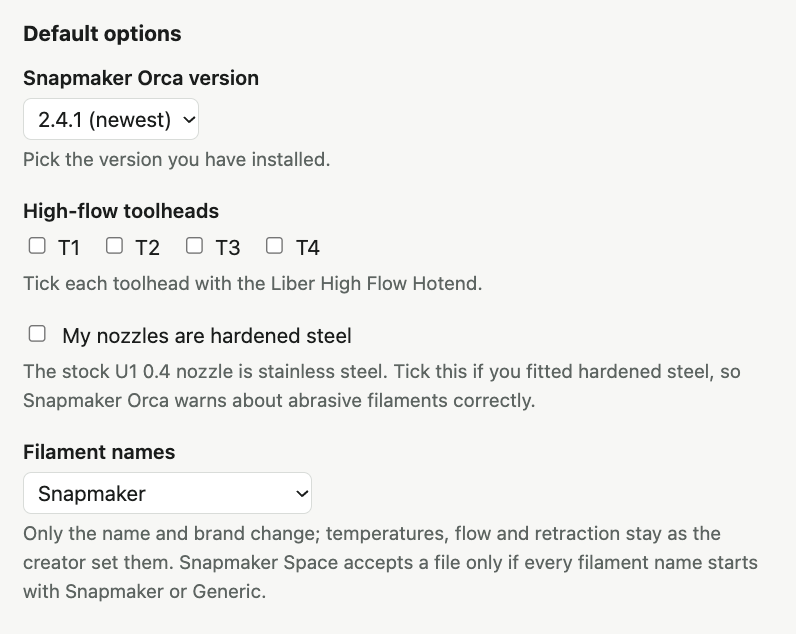
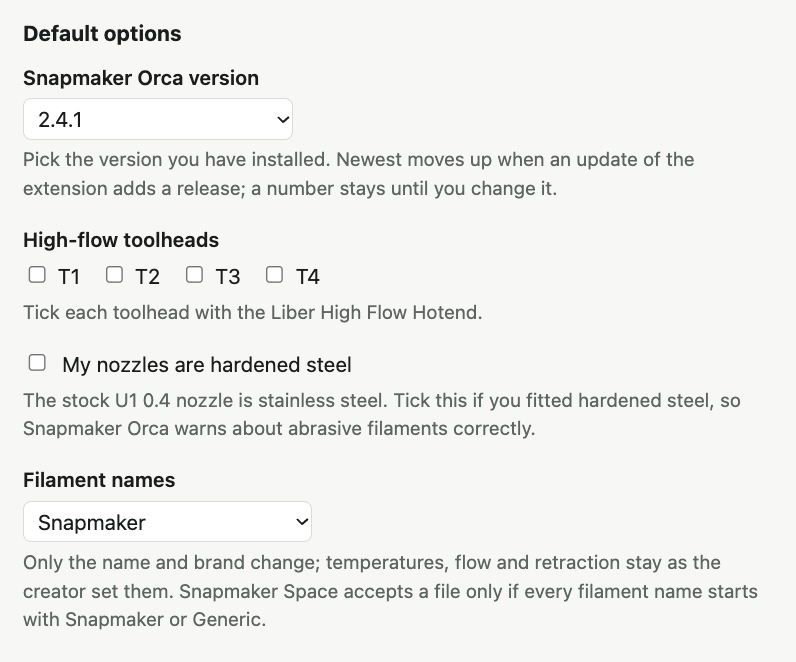
Keep the Snapmaker Orca version a user picked, the newest included
A new install pins the newest release; picking a number, the newest
included, saves that exact version, and "Newest" is its own entry for
anyone who wants to follow each update. When an update adds a release,
the notice says the choice stands and which version to pick after
updating Snapmaker Orca. A choice a later catalog drops moves to the
newest, pinned.

Changed region(s): [[0.0302, 0.03, 0.9347, 0.6593], [0.0302, 0.6893, 0.9648, 0.959]]

diff --git a/tests/e2e/releases.spec.ts b/tests/e2e/releases.spec.ts
@@ -15,20 +15,77 @@ const releasesOf = async (session: Session) => {
   const page = await session.open("convert.html");
   await page.locator("summary").click();
   await page.locator("#orca-version option").first().waitFor({ state: "attached" });
-  const releases = await page.locator("#orca-version option").evaluateAll((options) => options.map((o) => (o as HTMLOptionElement).value));
+  const releases = await page.locator("#orca-version option").evaluateAll((options) => options.map((o) => (o as HTMLOptionElement).value).filter((value) => value !== ""));
   await page.close();
   return releases;
 };
 const setKnown = (session: Session, known: string[]) => session.worker.evaluate((value) => chrome.storage.local.set({ knownReleases: value }), known);
+const storedVersion = (session: Session) =>
+  session.worker.evaluate(() => chrome.storage.local.get("settings").then(({ settings }) => (settings as { convert: { snapmakerOrcaVersion: string | null } }).convert.snapmakerOrcaVersion));
+const choose = (session: Session, version: string | null) => {
+  const settings = defaultSettings();
+  return setSettings(session, { ...settings, convert: { ...settings.convert, snapmakerOrcaVersion: version } });
+};
 
-test("a first run announces nothing, and shows what files are converted for", async () => {
+test("a first run announces nothing, and pins the newest by number", async () => {
   const page = await session.open("convert.html");
   await expect(page.locator("#options-version")).toContainText(/for Snapmaker Orca \d/);
   await expect(page.locator("#release-notice")).toBeHidden();
+  await page.locator("summary").click();
+  const newest = await page.locator("#orca-version option").nth(1).getAttribute("value");
+  await expect(page.locator("#orca-version")).toHaveValue(newest!);
+  await expect(page.locator("#orca-version option").first()).toHaveText(`Newest (currently ${newest})`);
+  expect(await storedVersion(session)).toBe(newest);
 });
 
-test("after an update adds a release: says so once, until dismissed", async () => {
+test("the picker saves Newest as following the catalog, and the newest by number as exact", async () => {
   const releases = await releasesOf(session);
+  const page = await session.open("convert.html");
+  await page.locator("summary").click();
+  await page.selectOption("#orca-version", "");
+  await expect.poll(() => storedVersion(session)).toBeNull();
+  await expect(page.locator("#options-version")).toContainText(`Snapmaker Orca ${releases[0]}`);
+  await page.selectOption("#orca-version", releases[0]!);
+  await expect.poll(() => storedVersion(session)).toBe(releases[0]);
+  await page.reload();
+  await page.locator("summary").click();
+  await expect(page.locator("#orca-version")).toHaveValue(releases[0]!);
+});
+
+test("the newest chosen by number stays put when an update adds a release", async () => {
+  const releases = await releasesOf(session);
+  const chosen = releases[1]!;
+  // As the extension was before the update: the chosen release was the newest it held, and was picked by number.
+  await setKnown(session, releases.slice(1));
+  await choose(session, chosen);
+
+  const page = await session.open("convert.html");
+  const notice = page.locator("#release-notice");
+  await expect(notice).toContainText(`Snapmaker Orca ${releases[0]} is now available`);
+  await expect(notice).toContainText(`You're still converting for ${chosen}.`);
+  await expect(notice).toContainText(`If you've updated Snapmaker Orca, choose ${releases[0]} in the options.`);
+  await expect(notice).not.toContainText("Conversions now use");
+  await expect(page.locator("#options-version")).toContainText(`Snapmaker Orca ${chosen}`);
+  await page.locator("summary").click();
+  await expect(page.locator("#orca-version")).toHaveValue(chosen);
+  await page.setInputFiles("#file", fixturePath(SAMPLE));
+  await expect(page.locator(".saved")).toContainText(`for Snapmaker Orca ${chosen}`);
+  expect(await storedVersion(session)).toBe(chosen);
+
+  // Dismissed, it stays away; the next new release brings it back.
+  await notice.locator("button.dismiss-notice").click();
+  await expect(notice).toBeHidden();
+  await page.reload();
+  await expect(page.locator("#options-version")).toContainText(`Snapmaker Orca ${chosen}`);
+  await expect(notice).toBeHidden();
+  await setKnown(session, releases.slice(1));
+  await page.reload();
+  await expect(notice).toContainText(`You're still converting for ${chosen}.`);
+});
+
+test("after an update adds a release, Newest moves up: says so once, until dismissed", async () => {
+  const releases = await releasesOf(session);
+  await choose(session, null);
   await setKnown(session, releases.slice(1));
   const page = await session.open("convert.html");
   const notice = page.locator("#release-notice");
@@ -55,6 +112,8 @@ test("a chosen release the catalog dropped: says so, and the picker and the resu
   await expect(page.locator("#options-version")).toContainText(`Snapmaker Orca ${releases[0]}`);
   await page.setInputFiles("#file", fixturePath(SAMPLE));
   await expect(page.locator(".saved")).toContainText(`for Snapmaker Orca ${releases[0]}`);
+  // Moved to the newest pinned, like a first run, so the next update doesn't move it again.
+  expect(await storedVersion(session)).toBe(releases[0]);
 });
 
 test("each result and the options name the version chosen", async () => {

diff --git a/tests/unit/releases.test.ts b/tests/unit/releases.test.ts
@@ -1,6 +1,6 @@
 // SPDX-License-Identifier: AGPL-3.0-or-later
 import { describe, expect, it } from "vitest";
-import { activeRelease, parseKnownReleases, releaseChange, releaseNoticeText } from "../../src/core/releases";
+import { activeRelease, parseKnownReleases, releaseChange, releaseNoticeText, settledChoice } from "../../src/core/releases";
 
 const now = ["2.4.2", "2.4.1", "2.4.0"];
 
@@ -21,6 +21,29 @@ describe("activeRelease", () => {
   });
 });
 
+describe("settledChoice", () => {
+  it("pins the newest on a first run, so a later update doesn't move anyone", () => {
+    expect(settledChoice(null, now, null)).toBe("2.4.2");
+    expect(settledChoice(null, now, "2.4.0")).toBe("2.4.0");
+  });
+  it("leaves Newest following the catalog after the first run", () => {
+    expect(settledChoice(["2.4.1", "2.4.0"], now, null)).toBeNull();
+  });
+  it("keeps an exact choice of the newest when a newer release arrives", () => {
+    expect(settledChoice(["2.4.1", "2.4.0"], now, "2.4.1")).toBe("2.4.1");
+    expect(activeRelease("2.4.1", now)).toBe("2.4.1");
+    expect(releaseChange(["2.4.1", "2.4.0"], now, "2.4.1")).toEqual({ added: ["2.4.2"], droppedChoice: null });
+  });
+  it("moves a dropped choice to the newest, pinned", () => {
+    expect(settledChoice(["2.4.1", "2.4.0", "2.3.9"], ["2.4.1", "2.4.0"], "2.3.9")).toBe("2.4.1");
+    expect(settledChoice(null, ["2.4.1", "2.4.0"], "2.3.9")).toBe("2.4.1");
+  });
+  it("changes nothing when the catalog is empty", () => {
+    expect(settledChoice(null, [], null)).toBeNull();
+    expect(settledChoice(["2.4.1"], [], "2.4.1")).toBe("2.4.1");
+  });
+});
+
 describe("the notice", () => {
   const text = (known: string[], chosen: string | null, releases = now) => releaseNoticeText(releaseChange(known, releases, chosen), releases, chosen);
 
@@ -34,10 +57,18 @@ describe("the notice", () => {
     expect(notice).toContain("Conversions now use 2.4.2");
     expect(notice).toContain("older version");
   });
-  it("tells someone with a choice that it stands", () => {
+  it("tells someone with a choice that it stands, and what to pick after updating", () => {
     const notice = text(["2.4.1", "2.4.0"], "2.4.1");
-    expect(notice).toContain("You're still converting for 2.4.1");
+    expect(notice).toContain("Snapmaker Orca 2.4.2 is now available");
+    expect(notice).toContain("You're still converting for 2.4.1.");
+    expect(notice).toContain("If you've updated Snapmaker Orca, choose 2.4.2 in the options.");
     expect(notice).not.toContain("Conversions now use");
+  });
+  it("comes back with each new release for a choice that stands", () => {
+    expect(text(["2.4.2", "2.4.1", "2.4.0"], "2.4.1", ["2.4.3", "2.4.2", "2.4.1"])).toContain("2.4.3 is now available here. You're still converting for 2.4.1.");
+  });
+  it("doesn't suggest the release already chosen", () => {
+    expect(text(["2.4.2", "2.4.1"], "2.4.2")).not.toContain("If you've updated");
   });
   it("says when a chosen release was dropped, and what's used instead", () => {
     const notice = text(["2.4.1", "2.4.0", "2.3.9"], "2.3.9", ["2.4.1", "2.4.0"]);

diff --git a/src/ui/optionsForm.ts b/src/ui/optionsForm.ts
@@ -10,17 +10,22 @@ const FILAMENT_CHOICES: Array<{ value: FilamentNames; label: string }> = [
   { value: "snapmaker", label: "Snapmaker" },
 ];
 
+/** The picker's value for "Newest": empty, so it can't be taken for a release number. */
+const NEWEST = "";
+
 function save(change: (convert: ConvertSettings) => void): void {
   void updateSettings((settings: Settings) => change(settings.convert));
 }
 
 export function renderOptions(container: HTMLElement, convert: ConvertSettings, releases: readonly string[]): void {
+  // "Newest" (stored as null) follows the catalog; a number, the newest included, stays put. A choice the catalog no
+  // longer holds shows as Newest, which is what a conversion would use, until the release check settles it.
+  const chosen = convert.snapmakerOrcaVersion;
+  const exact = chosen !== null && releases.includes(chosen) ? chosen : null;
   const version = el("select", { id: "orca-version" });
-  for (const [index, release] of releases.entries()) {
-    const label = index === 0 ? `${release} (newest)` : release;
-    version.append(el("option", { value: release, selected: release === (convert.snapmakerOrcaVersion ?? releases[0]) }, label));
-  }
-  version.addEventListener("change", () => save((c) => (c.snapmakerOrcaVersion = version.value === releases[0] ? null : version.value)));
+  if (releases[0] !== undefined) version.append(el("option", { value: NEWEST, selected: exact === null }, `Newest (currently ${releases[0]})`));
+  for (const release of releases) version.append(el("option", { value: release, selected: release === exact }, release));
+  version.addEventListener("change", () => save((c) => (c.snapmakerOrcaVersion = version.value === NEWEST ? null : version.value)));
 
   const toolheads = el("div", { class: "toolheads" });
   convert.highFlowToolheads.forEach((on, index) => {
@@ -40,7 +45,7 @@ export function renderOptions(container: HTMLElement, convert: ConvertSettings, 
     el("div", { class: "field" },
       el("label", { for: "orca-version" }, "Snapmaker Orca version"),
       version,
-      el("p", { class: "help" }, "Pick the version you have installed.")),
+      el("p", { class: "help" }, "Pick the version you have installed. Newest moves up when an update of the extension adds a release; a number stays until you change it.")),
     el("div", { class: "field" },
       el("span", { class: "label" }, "High-flow toolheads"),
       toolheads,

diff --git a/src/core/releases.ts b/src/core/releases.ts
@@ -24,6 +24,18 @@ export function activeRelease(chosen: string | null, releases: readonly string[]
   return chosen !== null && releases.includes(chosen) ? chosen : releases[0];
 }
 
+/**
+ * The choice to keep after an update is checked. A first run pins the newest, so a later update never moves anyone to a
+ * release they may not run without asking; a choice the catalog dropped moves to the newest, pinned the same way.
+ * Null ("Newest", chosen in the options) otherwise stays null and follows the catalog.
+ */
+export function settledChoice(known: readonly string[] | null, releases: readonly string[], chosen: string | null): string | null {
+  const newest = releases[0];
+  if (newest === undefined) return chosen;
+  if (chosen !== null && !releases.includes(chosen)) return newest;
+  return known === null ? (chosen ?? newest) : chosen;
+}
+
 /** What to tell the user, or null if nothing changed for them. */
 export function releaseNoticeText(change: ReleaseChange, releases: readonly string[], chosen: string | null): string | null {
   const newest = releases[0];
@@ -32,8 +44,10 @@ export function releaseNoticeText(change: ReleaseChange, releases: readonly stri
   if (change.droppedChoice !== null) parts.push(`Snapmaker Orca ${change.droppedChoice} is no longer available here, so conversions now use ${newest}, the newest.`);
   if (change.added.length > 0) {
     parts.push(`Snapmaker Orca ${change.added.join(", ")} ${change.added.length === 1 ? "is" : "are"} now available here.`);
-    if (chosen !== null && change.droppedChoice === null) parts.push(`You're still converting for ${chosen}; you can change that in the options.`);
-    else parts.push(`Conversions now use ${newest}. If you still run an older version, choose it in the options: a file made for a newer version may not open cleanly in an older one.`);
+    if (chosen !== null && change.droppedChoice === null) {
+      parts.push(`You're still converting for ${chosen}.`);
+      if (chosen !== newest) parts.push(`If you've updated Snapmaker Orca, choose ${newest} in the options.`);
+    } else parts.push(`Conversions now use ${newest}. If you still run an older version, choose it in the options: a file made for a newer version may not open cleanly in an older one.`);
   } else if (change.droppedChoice !== null) {
     parts.push("If you still run an older version, choose it in the options.");
   }

diff --git a/src/ui/releaseNotice.ts b/src/ui/releaseNotice.ts
@@ -1,7 +1,7 @@
 // SPDX-License-Identifier: AGPL-3.0-or-later
 /** Says once, and until dismissed, that an update changed which Snapmaker Orca releases are available. */
 import { api } from "../browser";
-import { parseKnownReleases, releaseChange, releaseNoticeText } from "../core/releases";
+import { parseKnownReleases, releaseChange, releaseNoticeText, settledChoice } from "../core/releases";
 import { button, el, need } from "./dom";
 import { loadSettings, updateSettings } from "./settingsStore";
 
@@ -19,16 +19,18 @@ export async function showReleaseNotice(releases: readonly string[]): Promise<vo
   const stored = await api.storage.local.get([KNOWN_KEY, NOTICE_KEY]);
   const known = parseKnownReleases(stored[KNOWN_KEY]);
   let notice = stored[NOTICE_KEY];
+  const { convert } = await loadSettings();
+  const chosen = convert.snapmakerOrcaVersion;
+  // A first run has nothing to announce; a notice stays until dismissed, and the next new release brings it back.
   if (known !== null) {
-    const { convert } = await loadSettings();
-    const change = releaseChange(known, releases, convert.snapmakerOrcaVersion);
-    const text = releaseNoticeText(change, releases, convert.snapmakerOrcaVersion);
+    const text = releaseNoticeText(releaseChange(known, releases, chosen), releases, chosen);
     if (text !== null) {
       notice = typeof notice === "string" && notice !== "" ? `${notice} ${text}` : text;
       await api.storage.local.set({ [NOTICE_KEY]: notice });
     }
-    if (change.droppedChoice !== null) await updateSettings((settings) => (settings.convert.snapmakerOrcaVersion = null));
   }
+  const settled = settledChoice(known, releases, chosen);
+  if (settled !== chosen) await updateSettings((settings) => (settings.convert.snapmakerOrcaVersion = settled));
   await api.storage.local.set({ [KNOWN_KEY]: [...releases] });
   draw(notice);
   api.storage.onChanged.addListener((changes, area) => {

diff --git a/tests/unit/settings.test.ts b/tests/unit/settings.test.ts
@@ -40,6 +40,22 @@ describe("parseSettings", () => {
   });
 });
 
+describe("the Snapmaker Orca version", () => {
+  it("is null (Newest) or an exact release number, and anything else falls back to Newest", () => {
+    expect(parseSettings({ convert: {} }).convert.snapmakerOrcaVersion).toBeNull();
+    expect(parseSettings({ convert: { snapmakerOrcaVersion: null } }).convert.snapmakerOrcaVersion).toBeNull();
+    expect(parseSettings({ convert: { snapmakerOrcaVersion: "2.4.1" } }).convert.snapmakerOrcaVersion).toBe("2.4.1");
+    for (const stored of ["newest", "", "2", "2.4.1 ", "v2.4.1", 2.4, true, ["2.4.1"], { version: "2.4.1" }]) {
+      expect(parseSettings({ convert: { snapmakerOrcaVersion: stored } }).convert.snapmakerOrcaVersion).toBeNull();
+    }
+  });
+  it("sends the exact newest when it was chosen by number, and nothing for Newest", () => {
+    expect(convertOptions({ ...defaultSettings().convert, snapmakerOrcaVersion: "2.4.2" }, ["2.4.2", "2.4.1"]).snapmakerOrcaVersion).toBe("2.4.2");
+    expect(convertOptions({ ...defaultSettings().convert, snapmakerOrcaVersion: "2.4.1" }, ["2.4.2", "2.4.1"]).snapmakerOrcaVersion).toBe("2.4.1");
+    expect(convertOptions(defaultSettings().convert, ["2.4.2", "2.4.1"])).not.toHaveProperty("snapmakerOrcaVersion");
+  });
+});
+
 describe("convertOptions", () => {
   const releases = ["2.4.1", "2.4.0"];
   it("asks for nothing extra by default", () => {

diff --git a/tests/e2e/convert-page.spec.ts b/tests/e2e/convert-page.spec.ts
@@ -48,7 +48,7 @@ test("each option reaches the library: same bytes as asking it directly", async 
   const page = await session.open("convert.html");
   await page.locator("summary").click();
   await page.locator("#orca-version option").first().waitFor({ state: "attached" });
-  const versions = await page.locator("#orca-version option").evaluateAll((options) => options.map((o) => (o as HTMLOptionElement).value));
+  const versions = await page.locator("#orca-version option").evaluateAll((options) => options.map((o) => (o as HTMLOptionElement).value).filter((value) => value !== ""));
   expect(versions.length).toBeGreaterThan(1);
   const older = versions[1]!;
   await page.selectOption("#orca-version", older);

diff --git a/src/core/settings.ts b/src/core/settings.ts
@@ -6,7 +6,7 @@ export type OfferStyle = "window" | "badge";
 export type Toolheads = [boolean, boolean, boolean, boolean];
 
 export type ConvertSettings = {
-  /** Null means the newest release the catalog holds. */
+  /** A release number stays put; null ("Newest" in the options) follows the newest release the catalog holds. A first run pins the newest. */
   snapmakerOrcaVersion: string | null;
   highFlowToolheads: Toolheads;
   hardenedNozzles: boolean;

diff --git a/README.md b/README.md
@@ -89,7 +89,7 @@ The **Not on** button beside an offer, which names the site, adds that site here
 
 The same options are under **Options** on the convert page, and a change in either place is kept for the next file.
 
-- **Snapmaker Orca version:** choose the version you run. The default is the newest the extension holds, and it keeps up to three. A new version arrives with an update of the extension, which the browser installs for you, and the extension then tells you once. It never goes online to check.
+- **Snapmaker Orca version:** choose the version you run. A new install starts on the newest the extension holds, and stays there until you change it. A newer version arrives with an update of the extension, which the browser installs for you; the extension then says so, and you choose it once you've updated Snapmaker Orca. That notice stays until you click **Got it**, and comes back with the next new version. Choose **Newest** instead to move up with each update. The extension keeps up to three versions; if the one you chose is removed, it moves you to the newest and tells you. It never goes online to check.
 - **High-flow toolheads:** tick each toolhead fitted with the Liber High Flow Hotend. It's used only for a file whose nozzle has a high-flow profile, and the result says which toolheads it applied to.
 - **My nozzles are hardened steel:** the stock U1 0.4 mm nozzle is stainless steel. Tick this if you fitted hardened steel, so Snapmaker Orca warns about abrasive filaments correctly. It applies to 0.4 mm files.
 - **Filament names:** keep the names in the file (the default), or use Snapmaker or Generic names. Only the name and brand change; every filament stays, in its order and color, with the temperatures, flow and retraction the creator set. Snapmaker Space accepts a file only if every filament name starts with Snapmaker or Generic.
